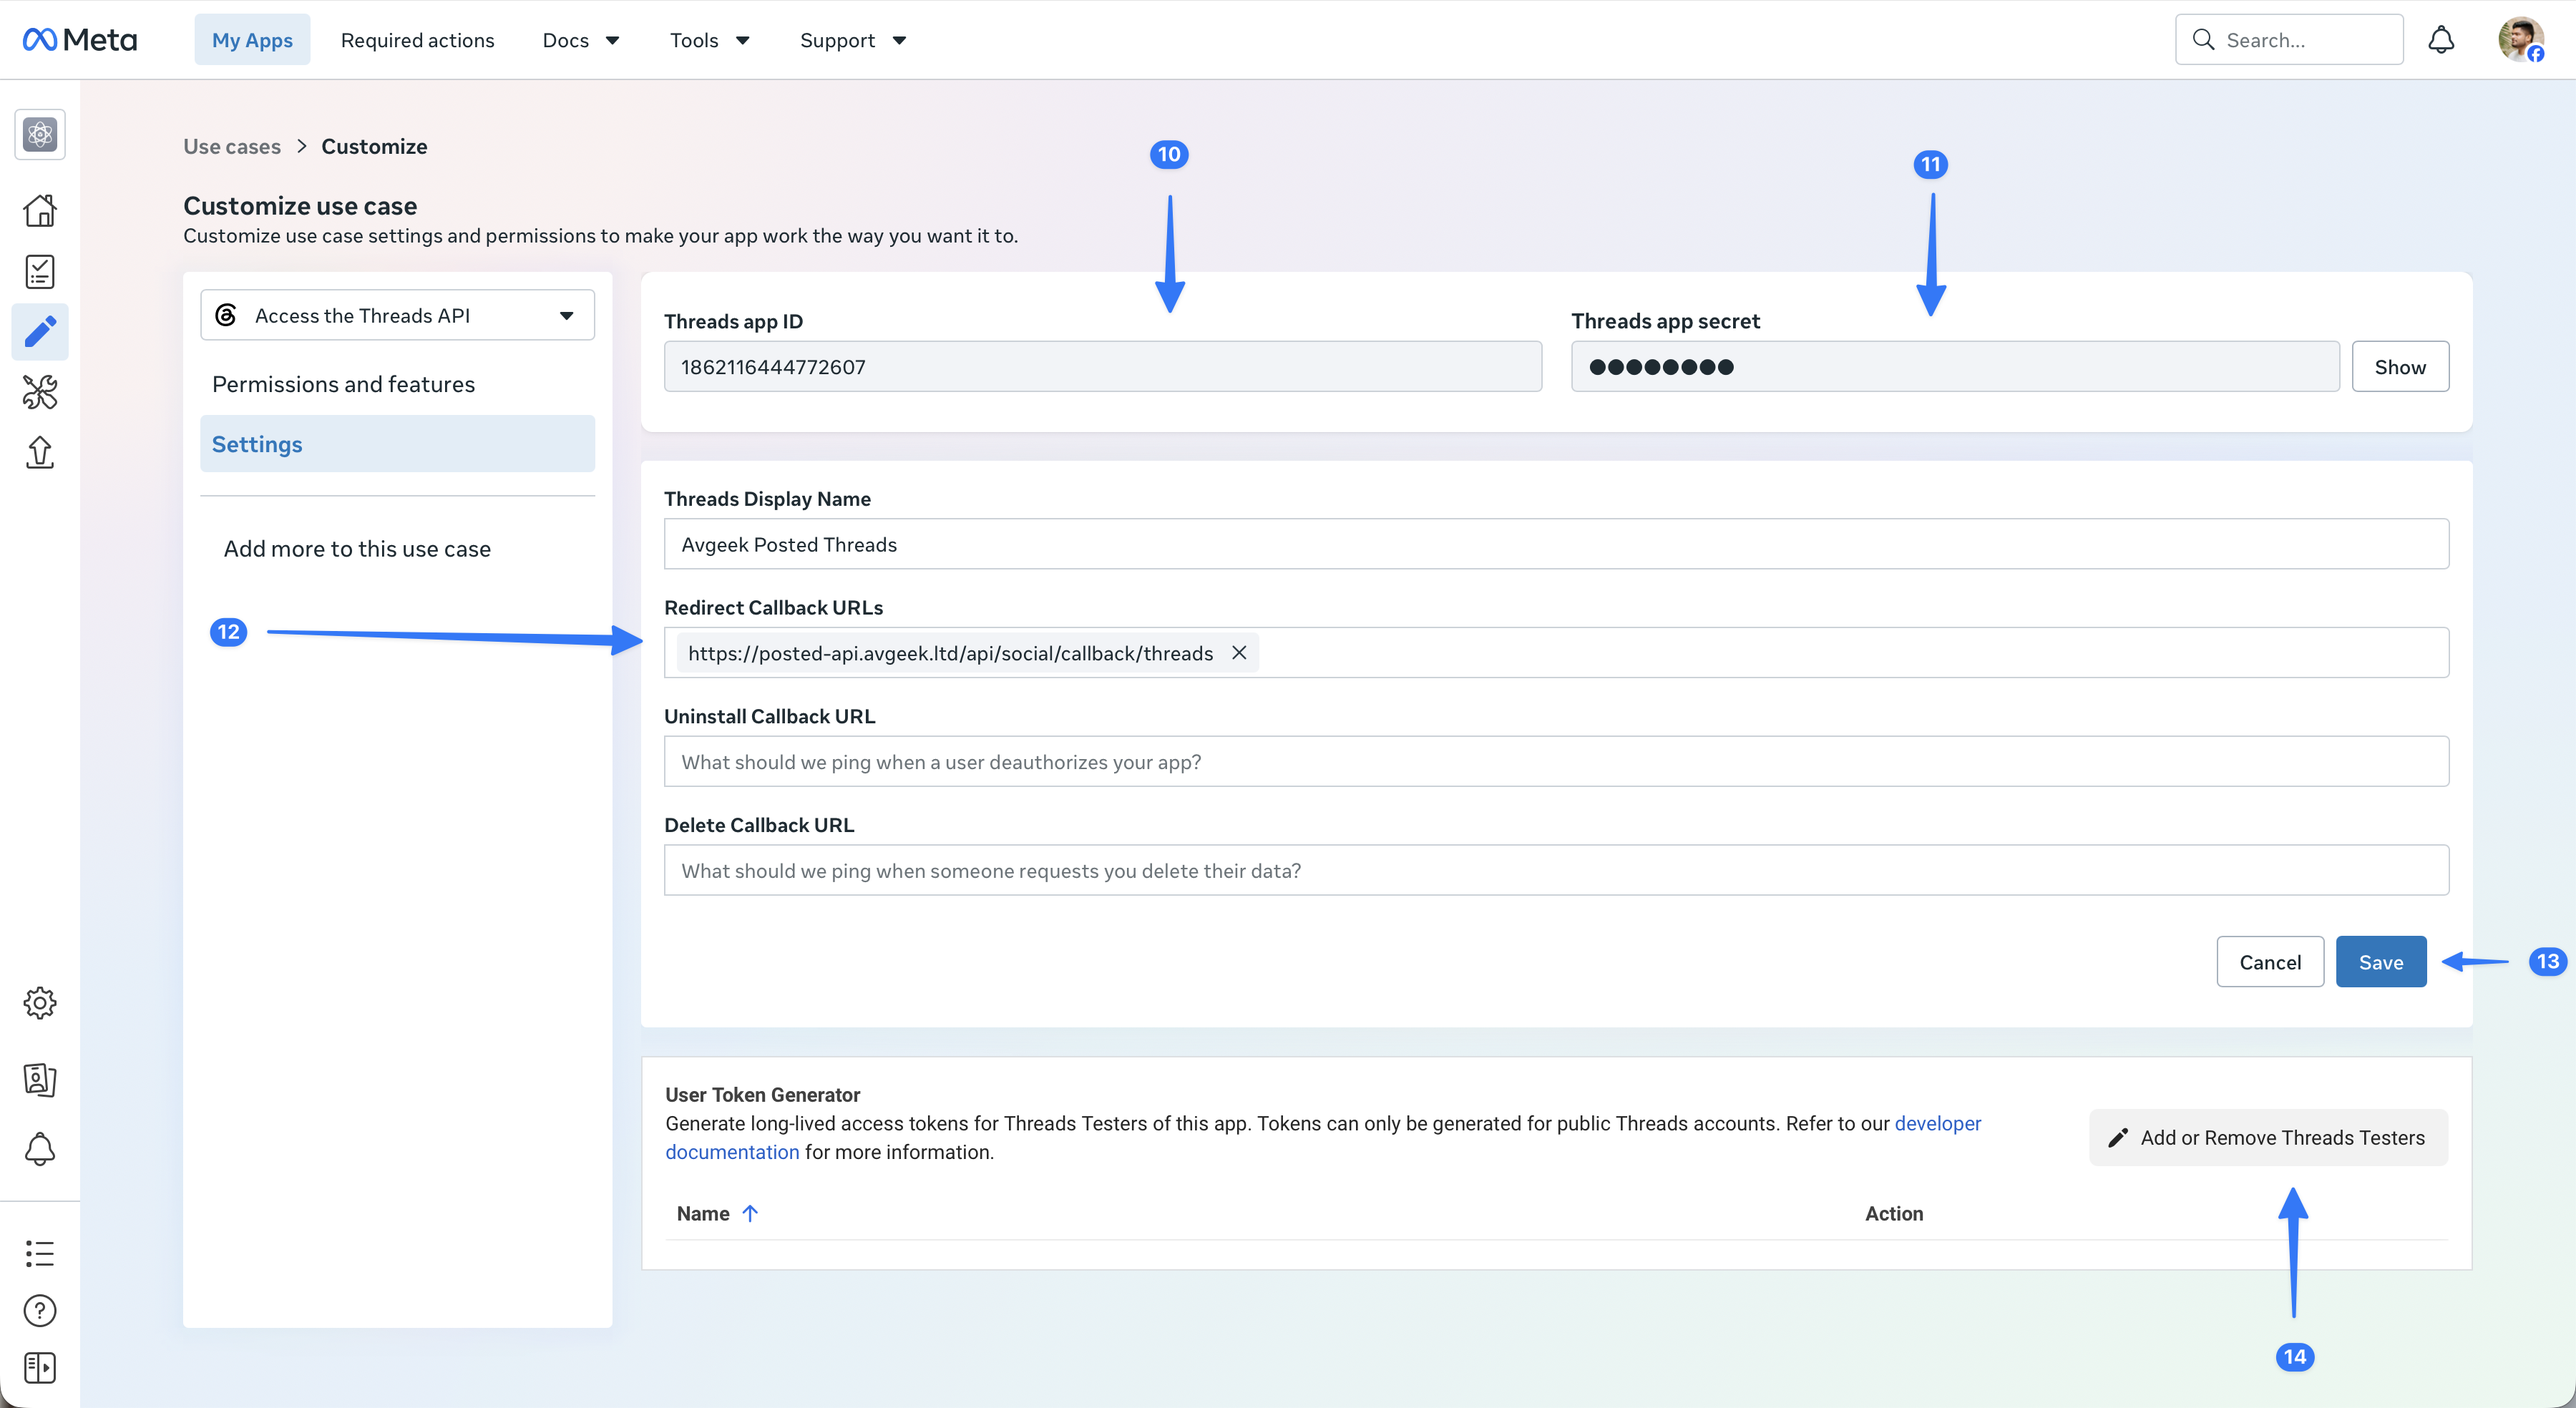
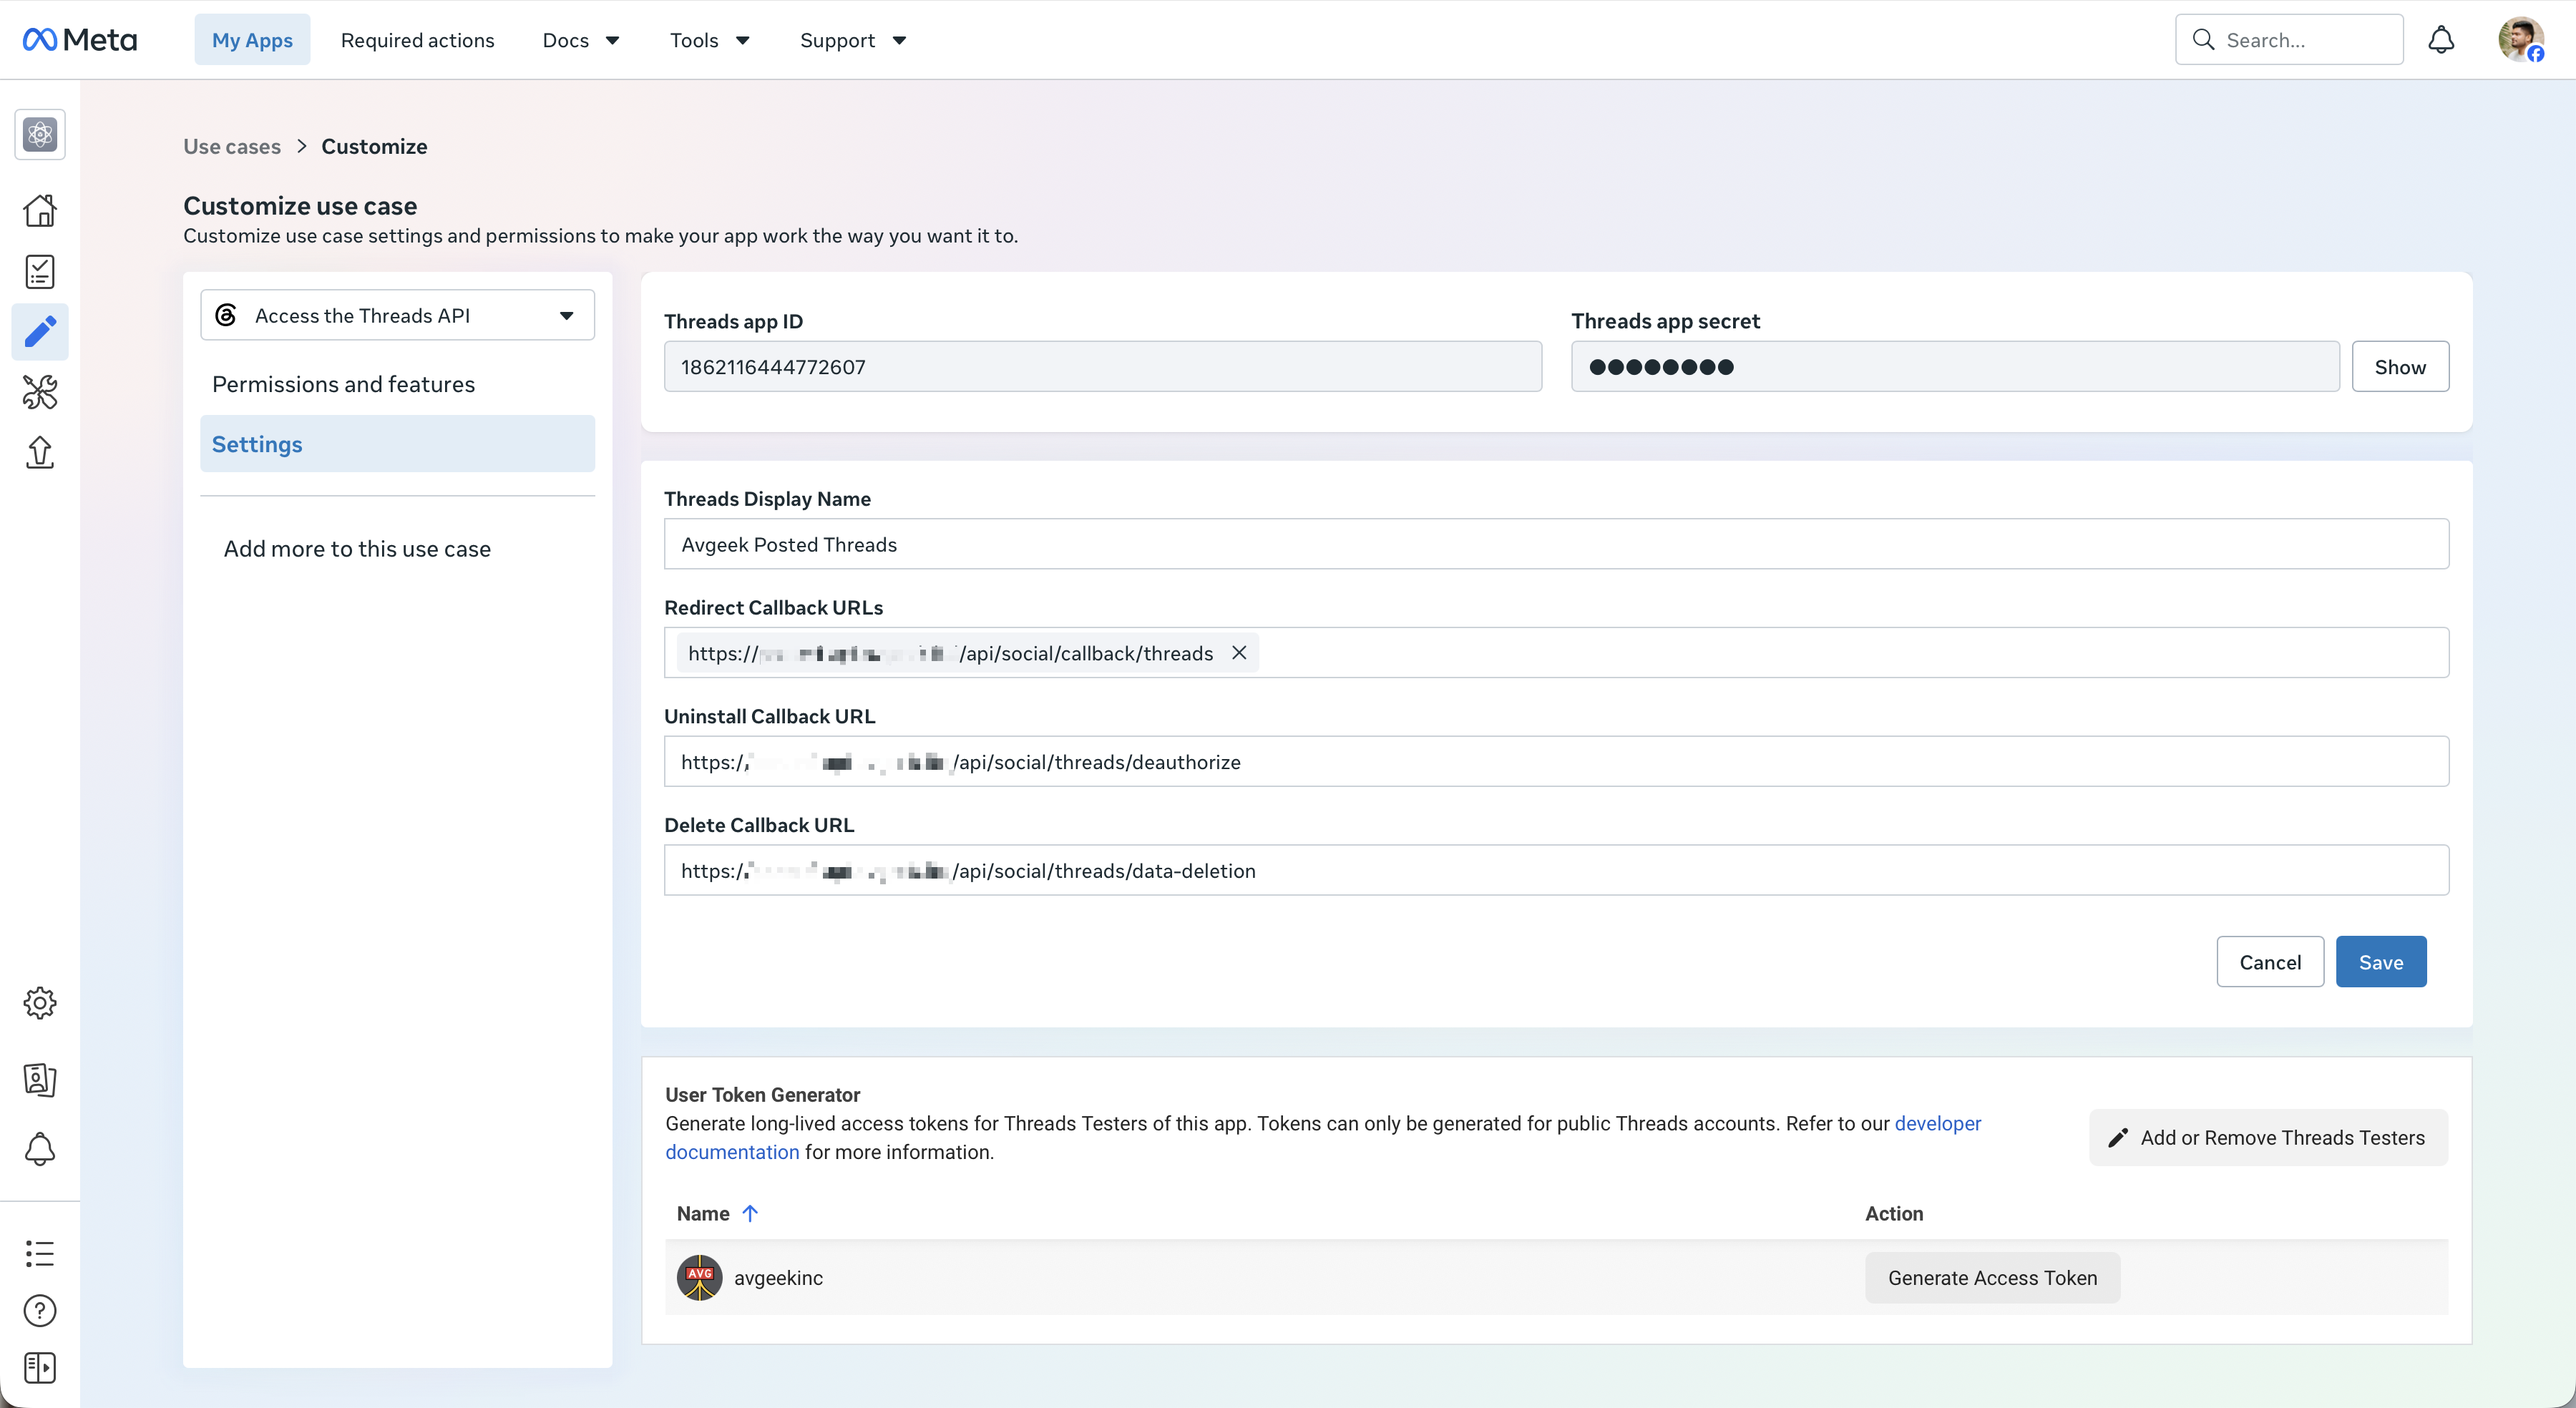
Use blurred Threads callbacks and show LinkedIn OAuth consent

diff --git a/docs/providers/linkedin.md b/docs/providers/linkedin.md
@@ -6,7 +6,14 @@ Publish individual member posts to connected LinkedIn accounts. Multiple posts a
 
 <Steps>
   <Step title="Configure the provider">Add the required environment variables below to your Posted installation.</Step>
-  <Step title="Authorize the account">A team administrator opens **Connections → Add connection**, chooses **LinkedIn**, and completes the provider’s sign-in and consent flow.</Step>
+  <Step title="Authorize the account">
+    A team administrator opens **Connections → Add connection** and chooses **LinkedIn**. Sign in to the member account you want to connect, review the requested permissions, and click **Allow** to return to Posted.
+
+    <Frame caption="Review LinkedIn's permissions and allow the connection.">
+      <img src="/assets/providers/linkedin/09-oauth-consent@2x.png" alt="LinkedIn authorization screen showing the requested permissions and Allow button." width="1800" height="984" />
+    </Frame>
+
+  </Step>
   <Step title="Choose it in the composer">After returning to Posted, confirm that the account is Connected. Select it through **Choose Accounts**, review its preview and customize its text or media if needed.</Step>
 </Steps>
 

diff --git a/docs/providers/threads.md b/docs/providers/threads.md
@@ -82,7 +82,7 @@ Open [Meta for Developers](https://developers.facebook.com/apps/) and create an 
     ```
 
     <Frame caption="Find the Threads credentials and enter your installation's callback URLs.">
-      <img src="/assets/providers/threads/06-callback-settings@2x.png" alt="Threads settings with masked app secret and redirect, uninstall and delete callback fields." width="1800" height="984" />
+      <img src="/assets/providers/threads/06-callback-settings@2x.png" alt="Threads settings with a masked app secret and blurred installation domains in all three callback URLs." width="1800" height="984" />
     </Frame>
 
     The uninstall callback disconnects the matching Threads account and stops queued posts. The delete callback also removes its stored profile and delivery records, then returns a confirmation link. Team-authored master copy, uploaded files and other accounts remain. Already published posts remain on Threads, and a publishing request already in progress cannot be recalled.
